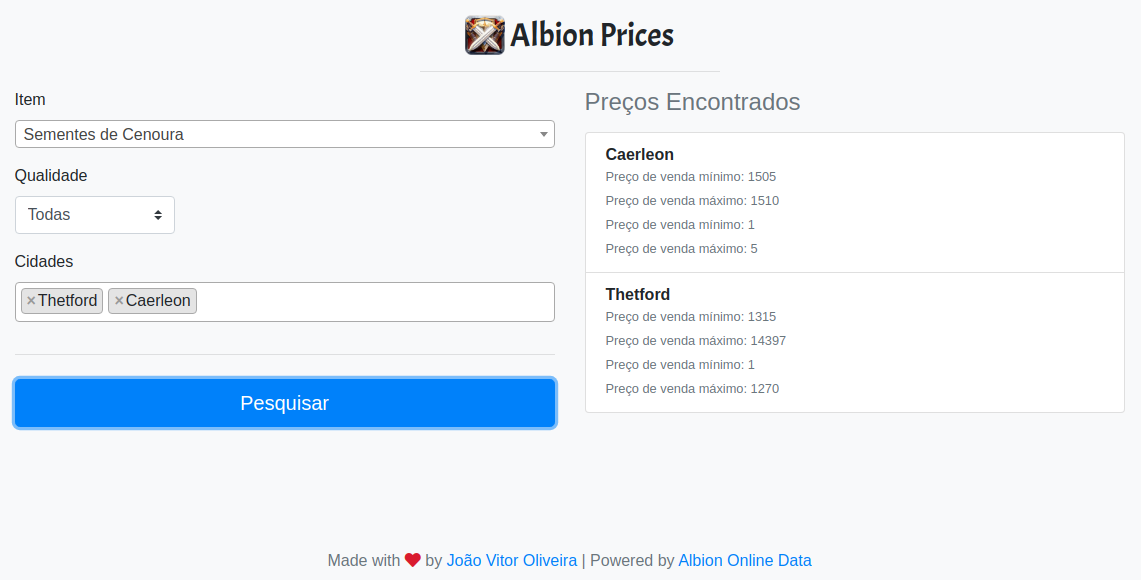
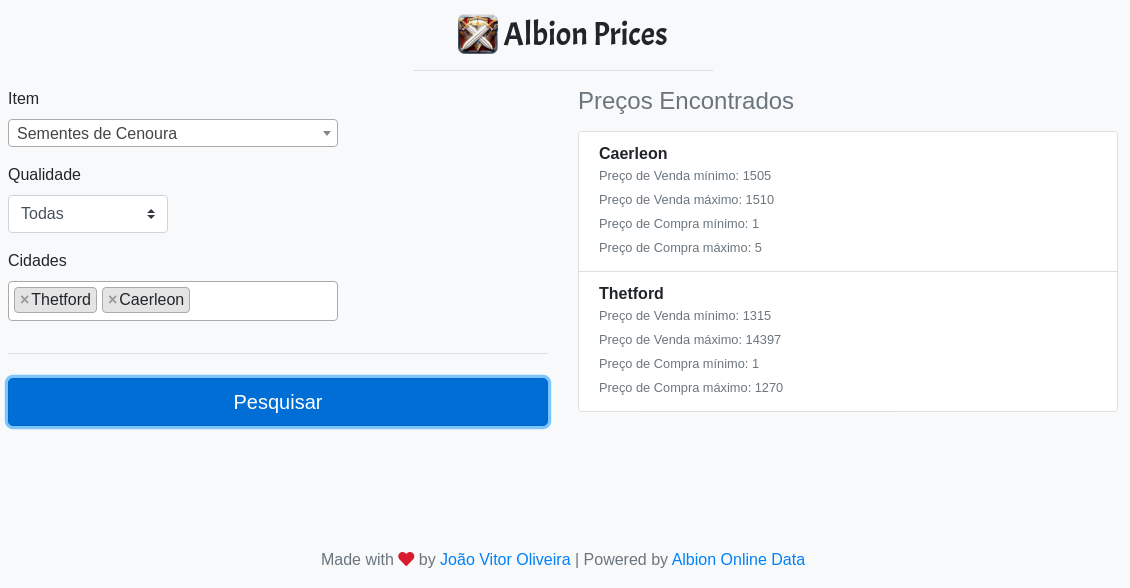
Correção label

diff --git a/index.html b/index.html
@@ -34,7 +34,7 @@
         <h4 class="d-flex justify-content-between align-items-center mb-3">
           <span class="text-muted">Preços Encontrados</span>
         </h4>
-        <ul class="list-group mb-3" style="height: 450px; overflow: auto" id="encontrados">
+        <ul class="list-group mb-3" style="height: 450px !important; overflow: auto !important;" id="encontrados">
           <!-- Itens encontrados -->
         </ul>
 

diff --git a/README.md b/README.md
@@ -10,3 +10,4 @@ A ideia é poder comparar o preço das cidades próximas a sua para vender ou co
 
 # Screenshot
 
+![Imagem](screenshot.png)
